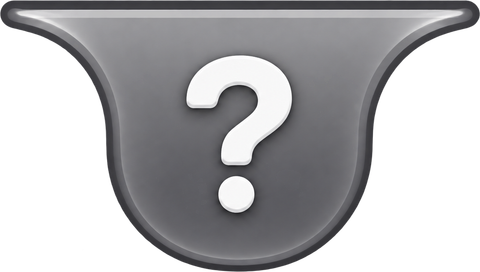
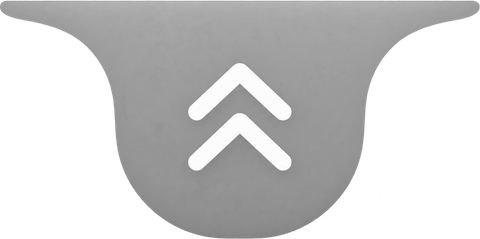
fix(fc-pp): count dropped slider ends as FC and calculate PP for graveyard maps

diff --git a/tests/normalization.test.ts b/tests/normalization.test.ts
@@ -48,9 +48,9 @@ describe("status / FC detection", () => {
     expect(detectStatus(score)).toEqual({ kind: "miss", count: 2 });
   });
 
-  it("does not claim FC when combo is broken without misses", () => {
-    const score = { ...referenceFixtureScore, is_perfect_combo: false };
-    expect(detectStatus(score).kind).toBe("unknown");
+  it("detects FC when slider ends are dropped without misses or slider breaks", () => {
+    const score = { ...referenceFixtureScore, is_perfect_combo: false, statistics: { great: 50, miss: 0 } };
+    expect(detectStatus(score).kind).toBe("fc");
   });
 
   it("counts only large tick misses as slider breaks", () => {
@@ -122,10 +122,10 @@ describe("manual score-data overrides", () => {
     expect(normalizeScore(qualifiedScore).beatmapStatus).toBe("qualified");
   });
 
-  it("maps qualified to approved notch and graveyard to graveyard notch", () => {
+  it("maps qualified to approved notch and graveyard to unranked notch", () => {
     expect(referenceTemplate.components.starNotch.assets?.qualified).toBe("/assets/osu/notch/approved.png");
     expect(referenceTemplate.components.starNotch.statusColors?.qualified).toBe("#3EA551");
-    expect(referenceTemplate.components.starNotch.assets?.graveyard).toBe("/assets/osu/notch/graveyard.png");
+    expect(referenceTemplate.components.starNotch.assets?.graveyard).toBe("/assets/osu/notch/unranked.png");
     expect(referenceTemplate.components.starNotch.statusColors?.graveyard).toBe("#6D6C70");
   });
 
@@ -145,6 +145,21 @@ describe("manual score-data overrides", () => {
     expect(template.components.status.color).toBe("#FF0055");
     expect(template.customTexts?.[0]?.fontSize).toBe(60);
     expect(template.customTexts?.[0]?.color).toBe("#FF9900");
+  });
+
+  it("calculates PP using rosu-pp for graveyard and unranked scores", async () => {
+    const { calculateScorePp } = await import("../src/shared/pp/calculatePp");
+    const sampleBeatmap = "osu file format v14\n[General]\nMode: 0\n[Difficulty]\nHPDrainRate:5\nCircleSize:4\nOverallDifficulty:8\nApproachRate:9\nSliderMultiplier:1.4\nSliderTickRate:1\n[HitObjects]\n256,192,1000,1,0,0:0:0:0:\n256,192,2000,1,0,0:0:0:0:\n";
+    const graveyardScore: ApiScore = {
+      ...referenceFixtureScore,
+      pp: null,
+      max_combo: 2,
+      accuracy: 1,
+      statistics: { great: 2, miss: 0 },
+    };
+    const result = await calculateScorePp(graveyardScore, sampleBeatmap);
+    expect(result).not.toBeNull();
+    expect(result?.pp).toBeGreaterThan(0);
   });
 });
 

diff --git a/src/shared/pp/calculatePp.ts b/src/shared/pp/calculatePp.ts
@@ -1,0 +1,81 @@
+import ojsamaModule from "ojsama";
+import type { ApiScore } from "../types/osu";
+
+const ojsama = (ojsamaModule as unknown as { default?: typeof ojsamaModule }).default ?? ojsamaModule;
+
+export interface PpCalculationResult {
+  pp: number;
+  stars: number;
+  maxCombo: number;
+  ppIfFc: number;
+}
+
+/**
+ * Calculates accurate PP and difficulty attributes for any osu! score.
+ * Pure JS calculation using ojsama - works in Cloudflare Workers, Node, and browser.
+ */
+export async function calculateScorePp(
+  score: ApiScore,
+  beatmapContent?: string,
+): Promise<PpCalculationResult | null> {
+  const beatmapId = score.beatmap?.id ?? score.beatmap_id;
+  if (!beatmapId && !beatmapContent) return null;
+
+  try {
+    let text = beatmapContent;
+    if (!text) {
+      const res = await fetch(`https://osu.ppy.sh/osu/${beatmapId}`);
+      if (!res.ok) return null;
+      text = await res.text();
+    }
+
+    const parser = new ojsama.parser();
+    parser.feed(text);
+    const map = parser.map;
+
+    const rawMods = score.mods ?? [];
+    const modStrings = rawMods.map((m) => (typeof m === "string" ? m : m.acronym)).join("");
+    const mods = ojsama.modbits.from_string(modStrings);
+
+    const stats: Record<string, number | undefined> = score.statistics ?? {};
+    const n300 = stats.great ?? stats.count_300 ?? stats["300"] ?? 0;
+    const n100 = stats.ok ?? stats.count_100 ?? stats["100"] ?? 0;
+    const n50 = stats.meh ?? stats.count_50 ?? stats["50"] ?? 0;
+    const nmiss = stats.miss ?? stats.count_miss ?? 0;
+    const combo = score.max_combo;
+
+    const stars = new ojsama.diff().calc({ map, mods });
+
+    const ppResult = ojsama.ppv2({
+      map,
+      stars,
+      mods,
+      combo,
+      n300,
+      n100,
+      n50,
+      nmiss,
+    });
+
+    const fcPpResult = ojsama.ppv2({
+      map,
+      stars,
+      mods,
+      combo: map.max_combo(),
+      n300: n300 + nmiss,
+      n100,
+      n50,
+      nmiss: 0,
+    });
+
+    return {
+      pp: Math.round(ppResult.total * 100) / 100,
+      stars: Math.round(stars.total * 100) / 100,
+      maxCombo: map.max_combo(),
+      ppIfFc: Math.round(fcPpResult.total * 100) / 100,
+    };
+  } catch (err) {
+    console.warn("PP calculation failed:", err);
+    return null;
+  }
+}

diff --git a/src/shared/normalize/resolveThumbnail.ts b/src/shared/normalize/resolveThumbnail.ts
@@ -2,6 +2,7 @@ import type { OsuClient } from "../osu/client";
 import { parseScoreUrl } from "../score-url/parseScoreUrl";
 import type { ThumbnailResult } from "../types/thumbnail";
 import { normalizeScore } from "./normalizeScore";
+import { calculateScorePp } from "../pp/calculatePp";
 
 /** Fetches and normalizes all public data needed by the thumbnail. */
 export async function resolveThumbnail(url: string, client: OsuClient): Promise<ThumbnailResult> {
@@ -19,13 +20,23 @@ export async function resolveThumbnail(url: string, client: OsuClient): Promise<
       : Promise.resolve(undefined),
   ]);
 
-  if (!attributes) warnings.push("Modded star rating unavailable. Using the base rating.");
+  if (!attributes && !score.beatmap?.difficulty_rating) warnings.push("Modded star rating unavailable. Using the base rating.");
   if (leaderboardPosition === undefined && score.rank_global === undefined) {
     warnings.push("Leaderboard position unavailable.");
   }
 
-  const data = normalizeScore(score, {
-    moddedStarRating: attributes?.star_rating,
+  let calculatedPp: number | undefined;
+  let calculatedStars: number | undefined;
+  if (score.pp === null || score.pp === undefined || !attributes?.star_rating) {
+    const calc = await calculateScorePp(score);
+    if (calc) {
+      if (score.pp === null || score.pp === undefined) calculatedPp = calc.pp;
+      if (!attributes?.star_rating) calculatedStars = calc.stars;
+    }
+  }
+
+  const data = normalizeScore(calculatedPp !== undefined ? { ...score, pp: calculatedPp } : score, {
+    moddedStarRating: attributes?.star_rating ?? calculatedStars,
     leaderboardPosition,
     baseBpm: score.beatmap?.bpm ?? 0,
   });

diff --git a/src/thumbnail/templates/reference/layout.ts b/src/thumbnail/templates/reference/layout.ts
@@ -79,12 +79,12 @@ export const referenceLayout: ReferenceTemplateComponents = {
       qualified: "/assets/osu/notch/approved.png",
       loved: "/assets/osu/notch/loved.png",
       approved: "/assets/osu/notch/approved.png",
-      graveyard: "/assets/osu/notch/graveyard.png",
-      grave: "/assets/osu/notch/graveyard.png",
-      wip: "/assets/osu/notch/unknown.png",
-      pending: "/assets/osu/notch/unknown.png",
+      graveyard: "/assets/osu/notch/unranked.png",
+      grave: "/assets/osu/notch/unranked.png",
+      wip: "/assets/osu/notch/unranked.png",
+      pending: "/assets/osu/notch/unranked.png",
       unranked: "/assets/osu/notch/unranked.png",
-      unknown: "/assets/osu/notch/unknown.png",
+      unknown: "/assets/osu/notch/unranked.png",
     },
     // Star-rating colors sampled from the actual notch asset pixels.
     statusColors: {

diff --git a/src/shared/normalize/status.ts b/src/shared/normalize/status.ts
@@ -13,9 +13,9 @@ export function detectStatus(score: ApiScore): PlayStatus {
     return { kind: "miss", count: miss };
   }
 
-  // A large tick miss is a slider break even when the API omits the combo flag.
+  // Large tick misses, slider breaks, or combo breaks indicate an actual broken combo.
+  // Dropping slider ends does not break combo and is counted as a Full Combo (FC).
   if (
-    score.is_perfect_combo === false ||
     (stats.large_tick_miss ?? 0) > 0 ||
     (stats.slider_break ?? 0) > 0 ||
     (stats.combo_break ?? 0) > 0
